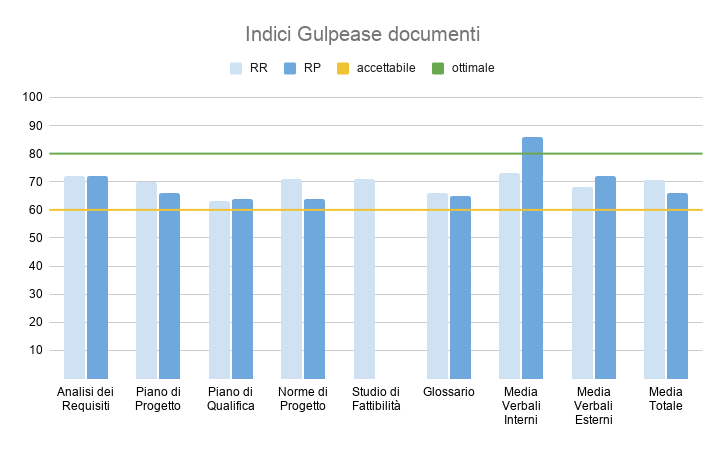
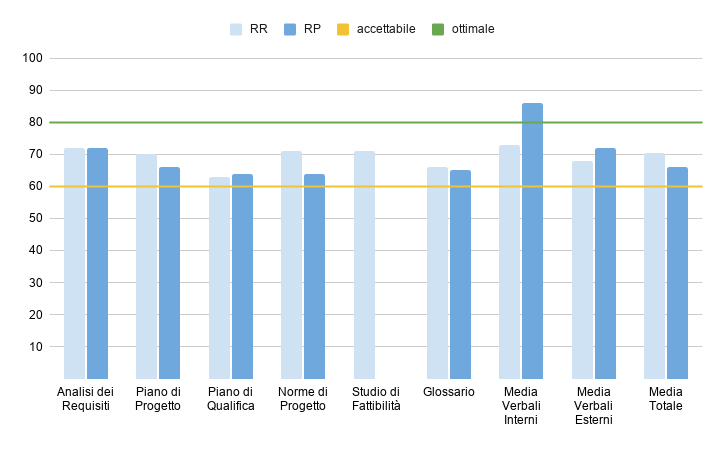
Uniformati tutti i grafici della PdQ

diff --git a/esterni/piano_di_qualifica/src/5_resoconto_attivita.tex b/esterni/piano_di_qualifica/src/5_resoconto_attivita.tex
@@ -85,7 +85,7 @@ Qui di seguito verranno presentati i resoconti relativi ai test effettuati nella
 
 \begin{figure}[H]
 	\centering
-	\includegraphics[width=14cm]{img/media_gul.jpg}
+	\includegraphics[width=14cm]{img/media_gul_RR.png}
 	\caption{Andamento Indice di Gulpease}
 \end{figure}
 
@@ -97,8 +97,8 @@ Abbiamo inoltre compreso la necessità di pianificare meglio le nostre attività
 
 \subsection{Secondo periodo (RP)}
 \label{sub:periodo-RP}
-\subsubsection{Risultati test fase di Revisione di Progettazione}
-Qui di seguito verranno presentati i resoconti relativi ai controlli di qualità effettuati nella fase di Revisione di Progettazione. 
+\subsubsection{Risultati test fase di progettazione e codifica della technology baseline}
+Qui di seguito verranno presentati i resoconti relativi ai controlli di qualità effettuati nella fase di progettazione e codifica della technology baseline. 
 
 \begin{center}
 	\begin{longtable}{|p{4cm}|p{4cm}|c|c|c|}
@@ -179,7 +179,7 @@ Qui di seguito verranno presentati i resoconti relativi ai controlli di qualità
 
 \begin{figure}[H]
 	\centering
-	\includegraphics[width=14cm]{img/media_gul_RP.jpg}
+	\includegraphics[width=14cm]{img/media_gul_RP.png}
 	\caption{Andamento Indice di Gulpease in fase di progettazione e codifica della technology baseline}
 \end{figure}
 
